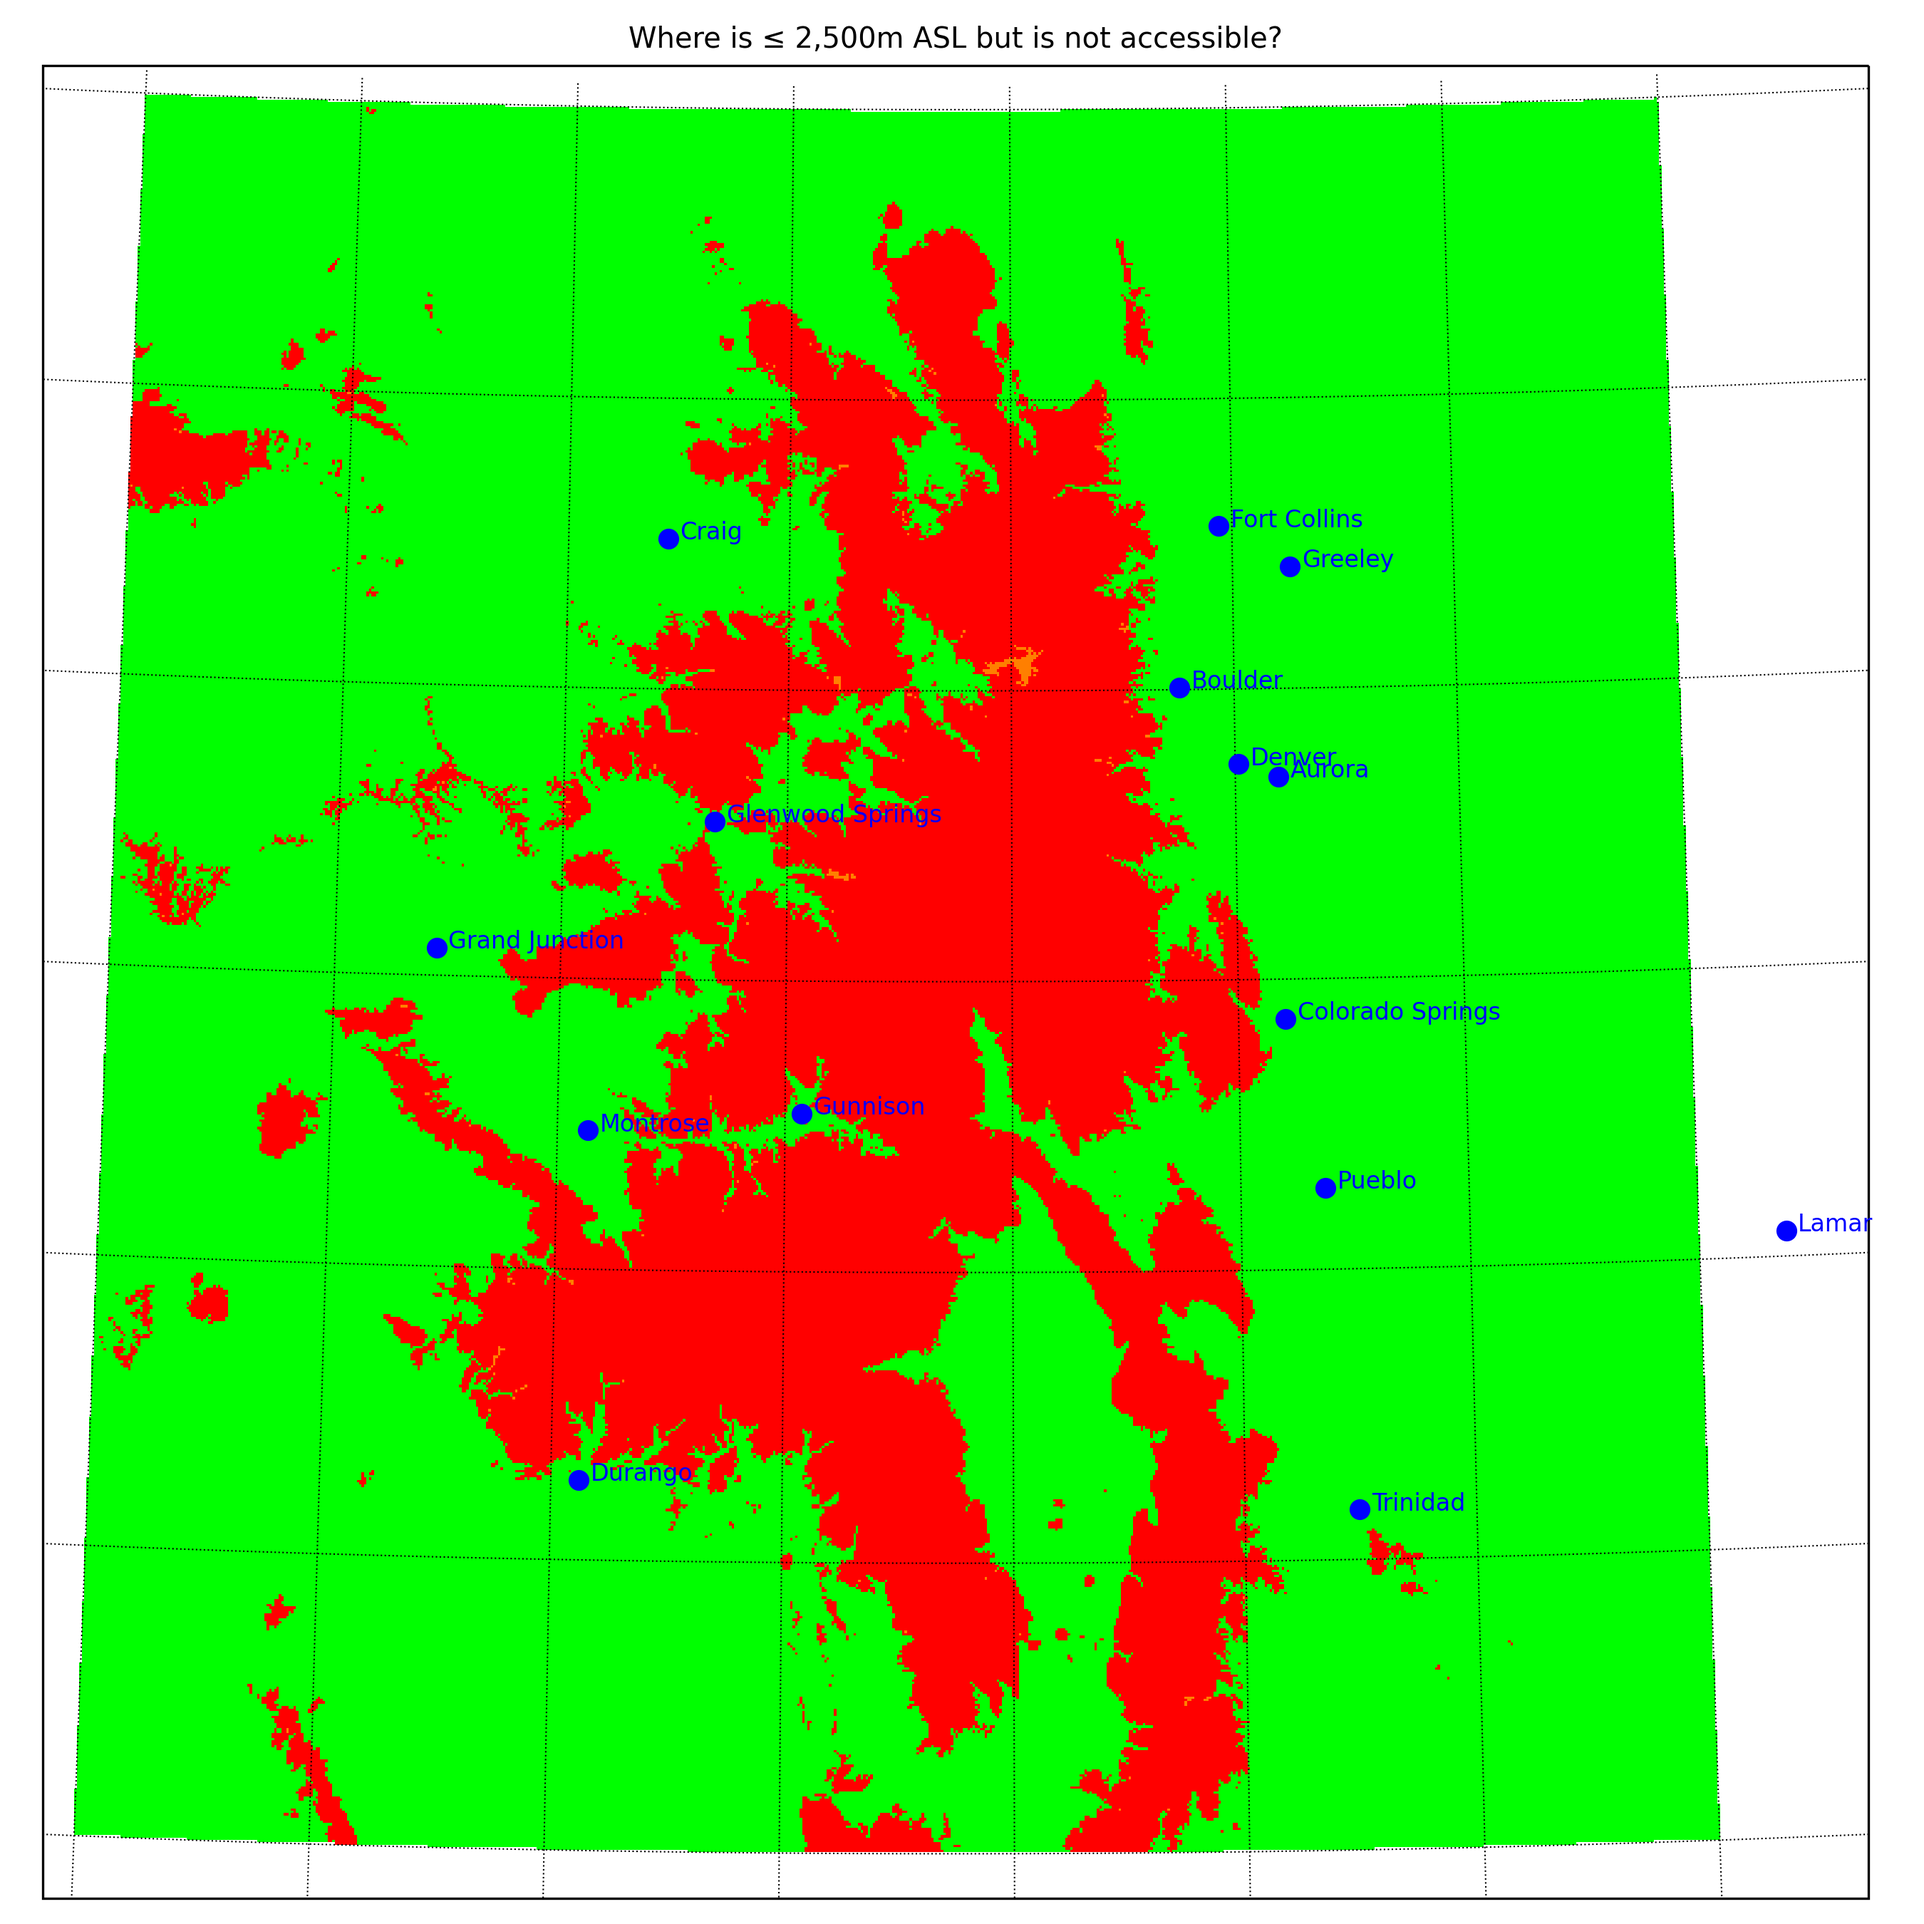
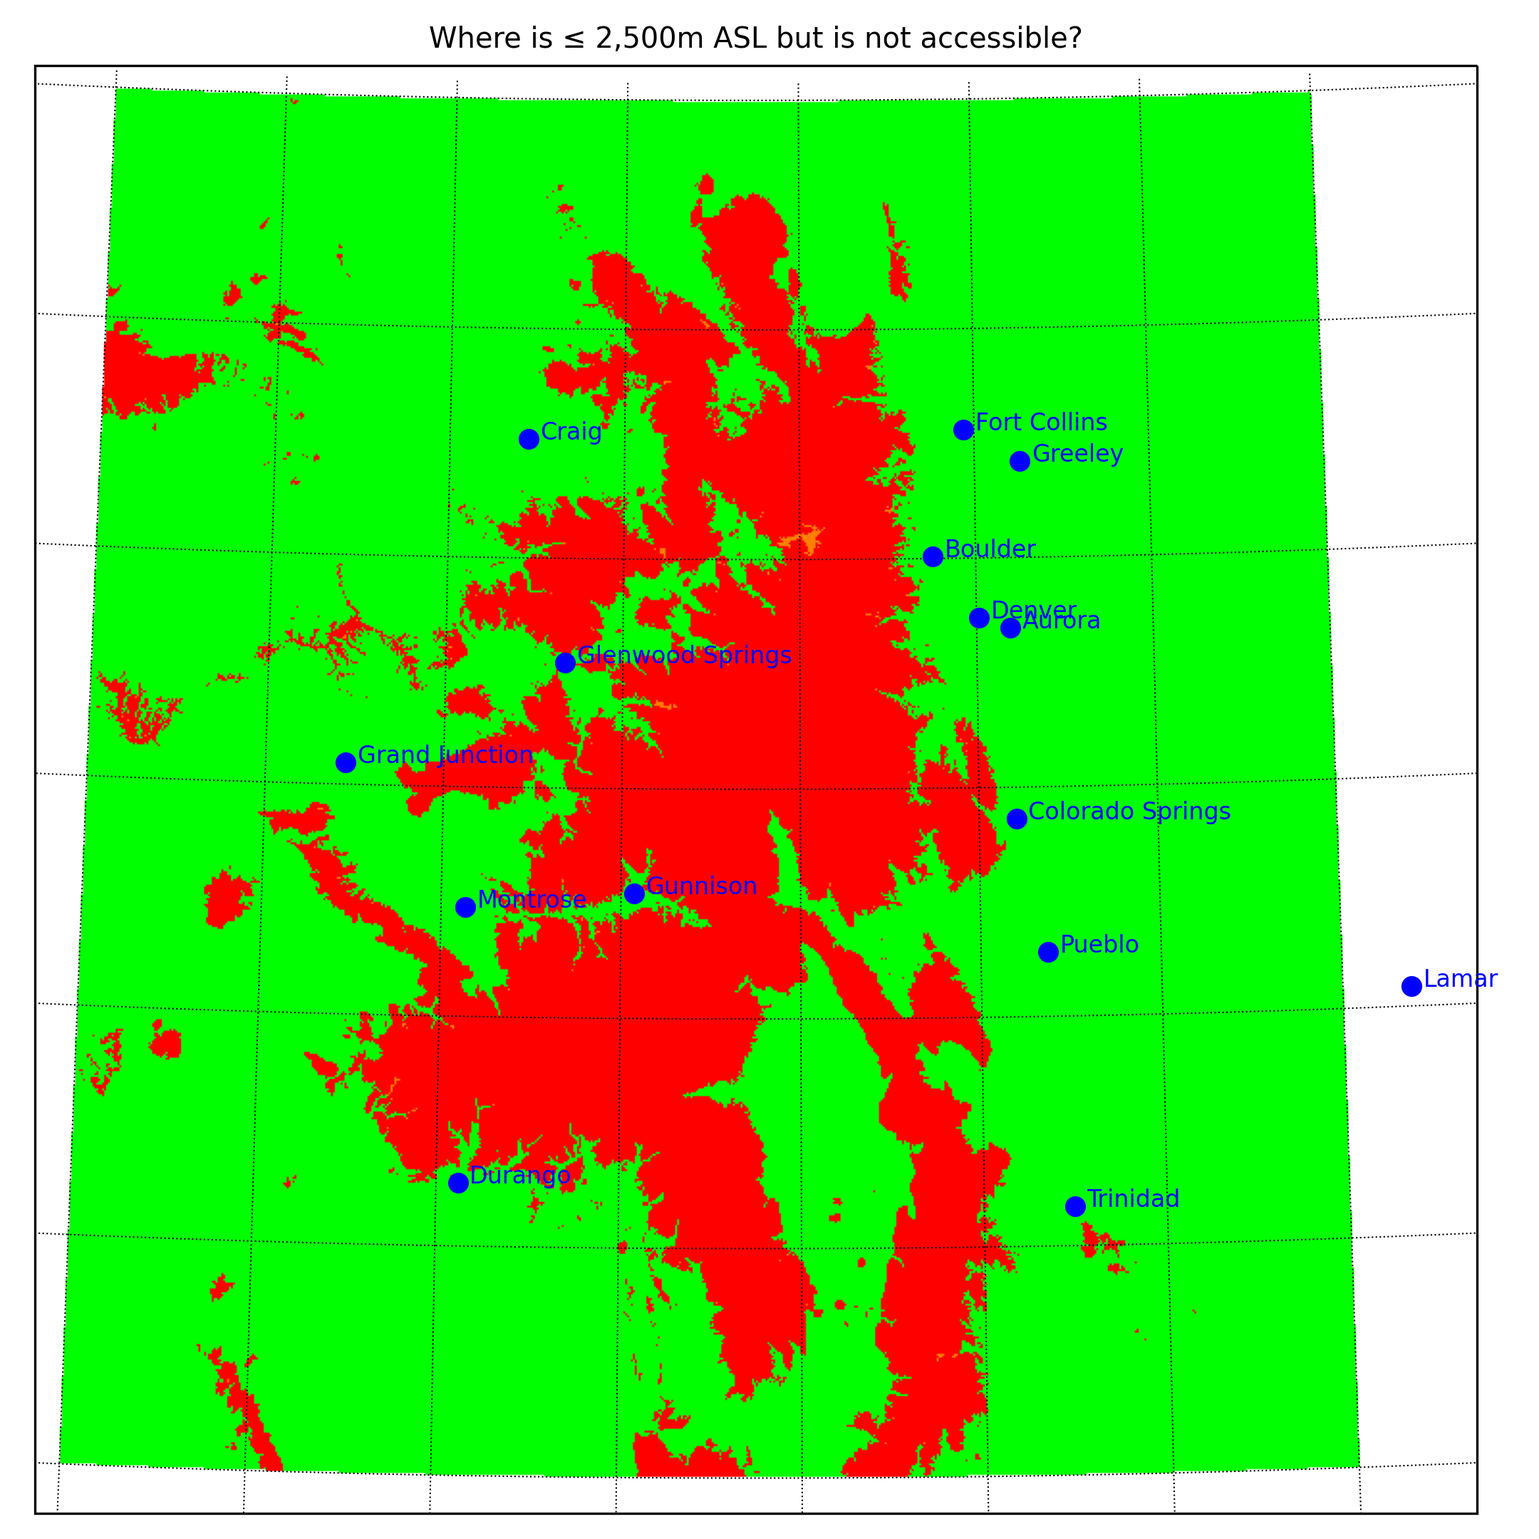
standardise figure sizes

diff --git a/makePlots.py b/makePlots.py
@@ -15,9 +15,10 @@ if __name__ == "__main__":
         import matplotlib
         matplotlib.rcParams.update(
             {
-                   "backend" : "Agg",                                           # NOTE: See https://matplotlib.org/stable/gallery/user_interfaces/canvasagg.html
-                "figure.dpi" : 300,
-                 "font.size" : 8,
+                       "backend" : "Agg",                                       # NOTE: See https://matplotlib.org/stable/gallery/user_interfaces/canvasagg.html
+                    "figure.dpi" : 300,
+                "figure.figsize" : (9.6, 7.2),                                  # NOTE: See https://github.com/Guymer/misc/blob/main/README.md#matplotlib-figure-sizes
+                     "font.size" : 8,
             }
         )
         import matplotlib.pyplot
@@ -70,7 +71,7 @@ if __name__ == "__main__":
             print(f"Making \"{pfile}\" ...")
 
             # Create figure ...
-            fg = matplotlib.pyplot.figure(figsize = (9, 9))
+            fg = matplotlib.pyplot.figure(figsize = (7.2, 7.2))
 
             # Create axis ...
             ax = pyguymer3.geo.add_top_down_axis(
@@ -120,7 +121,7 @@ if __name__ == "__main__":
             print(f"Making \"{pfile}\" ...")
 
             # Create figure ...
-            fg = matplotlib.pyplot.figure(figsize = (9, 9))
+            fg = matplotlib.pyplot.figure(figsize = (7.2, 7.2))
 
             # Create axis ...
             ax = pyguymer3.geo.add_top_down_axis(
@@ -207,7 +208,7 @@ if __name__ == "__main__":
             print(f"Making \"{pfile}\" ...")
 
             # Create figure ...
-            fg = matplotlib.pyplot.figure(figsize = (9, 9))
+            fg = matplotlib.pyplot.figure(figsize = (7.2, 7.2))
 
             # Create axis ...
             ax = pyguymer3.geo.add_top_down_axis(
